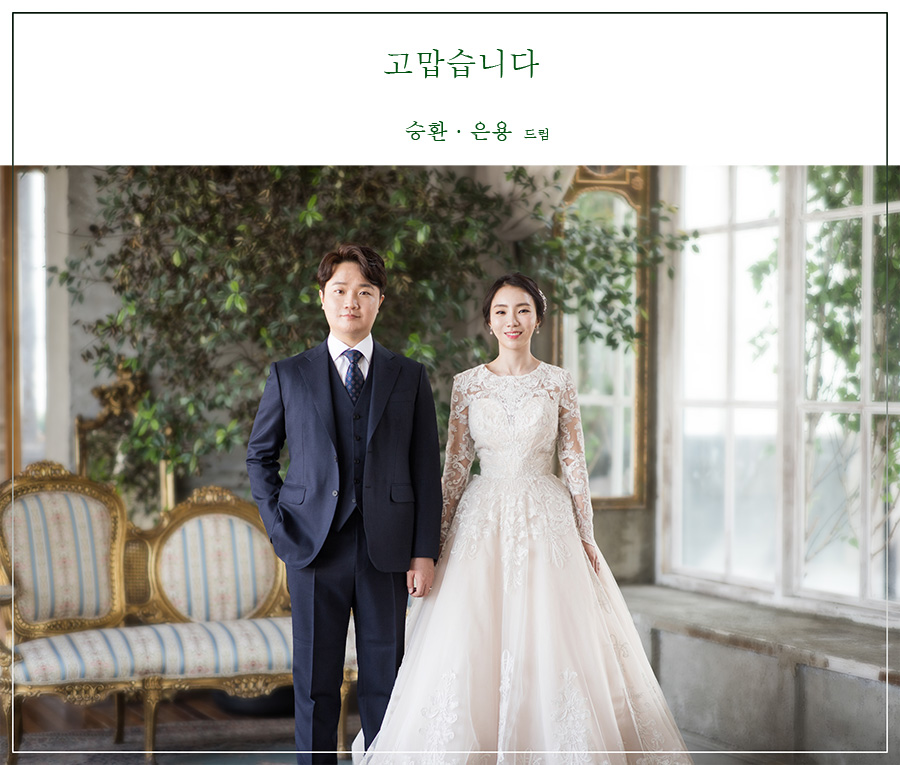
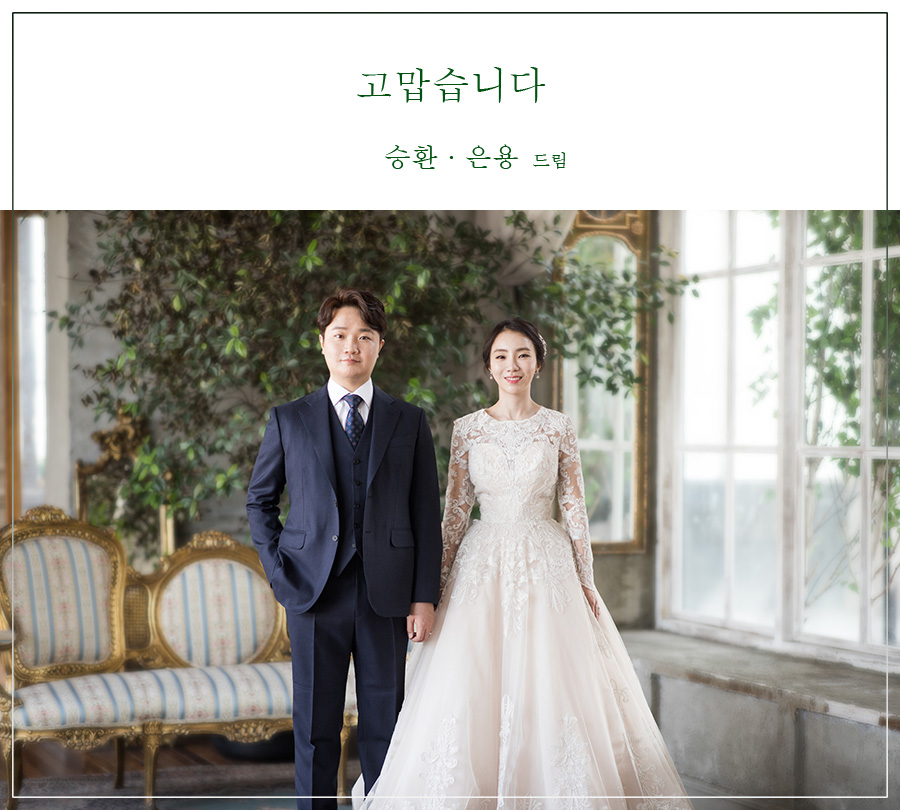
feature: Update thanks image And remove opacity option

diff --git a/index.html b/index.html
@@ -360,7 +360,8 @@
         <br>
         <br>
         <br>
-        <img src="img/thanks_0_900w.jpg" height="765" width="900" style="opacity: 0.8"/></section>
+        <img src="img/thanks_0_900w.jpg" height="810" width="900"/>
+    </section>
     <section id="footer">
     </section>
 
